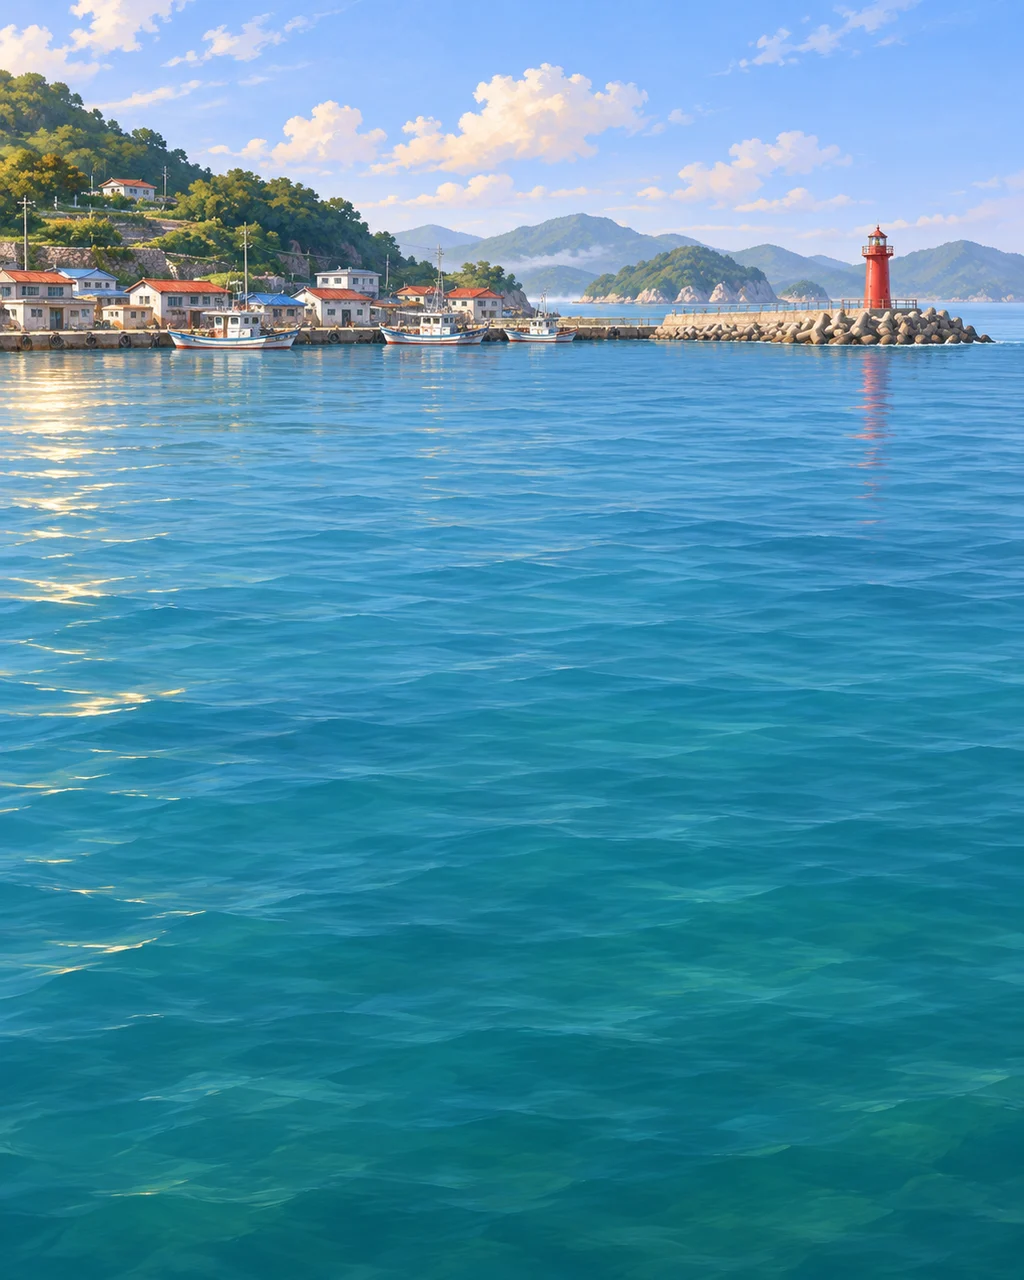
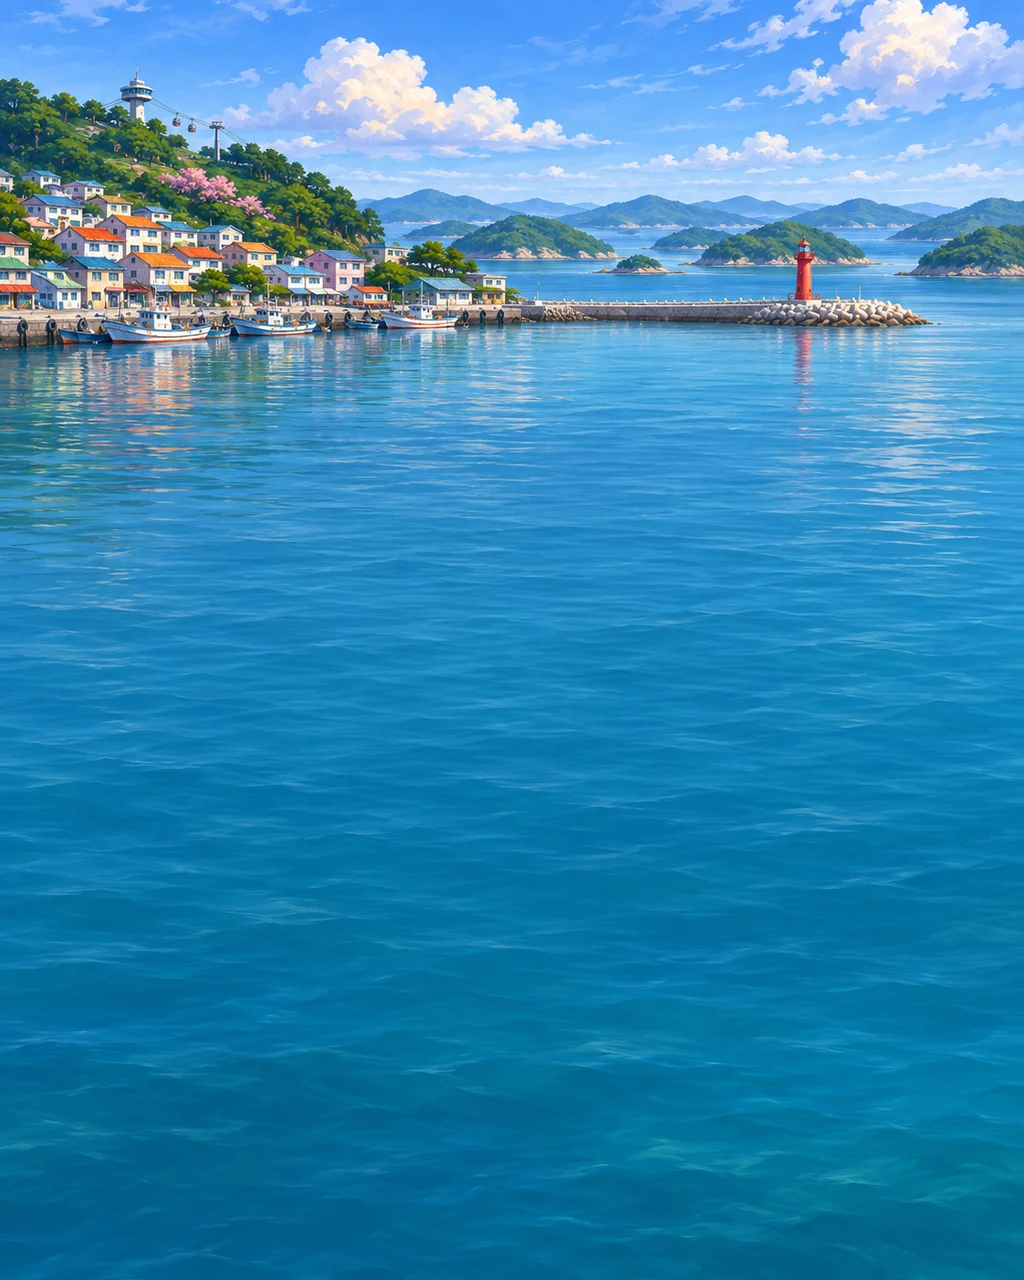
Fishing: new real-place backgrounds for every spot, Seomjin gets its own, water lines re-measured

diff --git a/src/lib/fishingfx.ts b/src/lib/fishingfx.ts
@@ -19,14 +19,15 @@ type SpotLook = { horizon: number; glint: string; air: "petal" | "mote" | "lante
 /** 수평선(그림마다 재서 적었다) · 물빛 반짝임 색 · 공중에 떠다니는 것 */
 export const FX_SPOTS: Readonly<Record<string, SpotLook>> = {
   brook: { horizon: 0.29, glint: "#ffffff", air: "petal" },
-  pond: { horizon: 0.28, glint: "#ffe3a8", air: "petal" },
+  pond: { horizon: 0.25, glint: "#ffe3a8", air: "petal" },
   jungle: { horizon: 0.29, glint: "#fff6c8", air: "mote" },
-  seomjin: { horizon: 0.29, glint: "#ffffff", air: "petal" },
-  harbor: { horizon: 0.27, glint: "#fff1d0", air: "bird" },
+  seomjin: { horizon: 0.28, glint: "#ffffff", air: "petal" },
+  harbor: { horizon: 0.26, glint: "#fff1d0", air: "bird" },
   reef: { horizon: 0.24, glint: "#ffffff", air: "bird" },
-  ocean: { horizon: 0.33, glint: "#fff1d0", air: "bird" },
-  palace: { horizon: 0.26, glint: "#ffd28a", air: "lantern" },
-  starsea: { horizon: 0.37, glint: "#cfe0ff", air: "star" },
+  ocean: { horizon: 0.30, glint: "#fff1d0", air: "bird" },
+  palace: { horizon: 0.31, glint: "#ffd28a", air: "lantern" },
+  starsea: { horizon: 0.28, glint: "#cfe0ff", air: "star" },
+  abyss: { horizon: 0.27, glint: "#97e8ef", air: "star" },
 };
 
 type RodLook = { butt: string; tip: string; wrap: string; grip: string; reel: string; spark?: string };

diff --git a/src/lib/fishing.ts b/src/lib/fishing.ts
@@ -48,7 +48,7 @@ export const spotArtKey = (s: Pick<FishSpot, "key" | "art">) => s.art ?? `spot_$
 export const SPOTS: readonly FishSpot[] = [
   { key: "brook", name: "서울 청계천", water: "river", minLevel: 1, pool: [["guppy", 50], ["tetra", 40], ["goldfish", 15], ["betta", 10]] },
   { key: "pond", name: "창녕 우포늪", water: "wetland", minLevel: 3, pool: [["catfish", 70], ["koi", 15]] },
-  { key: "seomjin", name: "하동 섬진강", water: "river", minLevel: 5, pool: [["sweetfish", 70], ["salmon", 15]], art: "spot_brook" },
+  { key: "seomjin", name: "하동 섬진강", water: "river", minLevel: 5, pool: [["sweetfish", 70], ["salmon", 15]], art: "spot_seomjin" },
   { key: "jungle", name: "서천 국립생태원", water: "hall", minLevel: 7, pool: [["angel", 40], ["discus", 30], ["ray", 20], ["arowana", 10]] },
   { key: "harbor", name: "통영 항구", water: "sea", minLevel: 9, pool: [["flounder", 45], ["rockfish", 35], ["sea_bream", 25], ["sea_bass", 20], ["croaker", 10], ["yellowtail", 8], ["striped_jack", 5]] },
   { key: "reef", name: "서귀포 문섬", water: "sea", minLevel: 12, pool: [["clown", 55], ["nurse_shark", 15], ["leopard_shark", 15], ["sea_turtle", 30], ["manta", 15]] },

diff --git a/src/lib/fishingart.test.ts b/src/lib/fishingart.test.ts
@@ -8,7 +8,7 @@ import { FISHING_IMAGE_KEYS } from "./fishingimages.ts";
 test("fishing art covers every spot, rod, landing net, bait and junk item", () => {
   const expected = [...SPOTS.map(s => `spot_${s.key}`), ...RODS.map(r => r.key), ...NETS.map(n => n.key), ...BAITS.map(b => b.key), ...JUNKS.map(j => j.key)];
   // Harbor artwork is deployed before the reviewed species and spot are enabled.
-  assert.deepEqual([...FISHING_IMAGE_KEYS].sort(), [...new Set([...expected.filter((k) => k !== "spot_seomjin"), "spot_harbor"])].sort()); // 섬진강은 자기 그림이 올 때까지 art 로 빌려 쓴다
+  assert.deepEqual([...FISHING_IMAGE_KEYS].sort(), [...new Set([...expected, "spot_harbor", "spot_abyss"])].sort());
 });
 
 test("fishing backgrounds are portrait HD and all item art retains transparent 512px masters", () => {

diff --git a/src/lib/fishingimages.ts b/src/lib/fishingimages.ts
@@ -36,6 +36,7 @@ export const FISHING_IMAGE_KEYS: ReadonlySet<string> = new Set<string>([
   "rod_glass",
   "rod_star",
   "rod_titan",
+  "spot_abyss",
   "spot_brook",
   "spot_harbor",
   "spot_jungle",
@@ -43,5 +44,6 @@ export const FISHING_IMAGE_KEYS: ReadonlySet<string> = new Set<string>([
   "spot_palace",
   "spot_pond",
   "spot_reef",
+  "spot_seomjin",
   "spot_starsea",
 ]);

diff --git a/design/FISHING-ART.md b/design/FISHING-ART.md
@@ -4,7 +4,7 @@
 > **이 문서의 그림은 전부 2D 다.** 수조 내부의 3D 모델은 별도 제작·검수하며(`design/aqua3d-review/`), 이 문서의 낚시터 · 장비 · 미끼 · 쓰레기를 대체하지 않는다.
 > 낚시 결과 카드 · 게임 탭 카드의 물고기는 2D 그림(`public/aqua/fish`, design/AQUARIUM-ART.md)을 그대로 쓴다 — 수조가 3D 가 돼도 지우지 않는다.
 >
-> 모두 **43장**: 낚시터 배경 9 · 장비 12 · 미끼 7 · 꽝 쓰레기 15. 미끼 · 쓰레기는 없으면 화면이 벡터 아이콘으로 그린다.
+> 모두 **44장**: 낚시터 배경 10 · 장비 12 · 미끼 7 · 꽝 쓰레기 15. 미끼 · 쓰레기는 없으면 화면이 벡터 아이콘으로 그린다.
 
 ## 넣는 법
 
@@ -27,10 +27,11 @@ Premium hand-painted mobile fishing game background, portrait 4:5 (1024x1280), v
 Premium hand-painted mobile game item icon, cute but believable, glossy rich shading, soft light from the upper left, clean readable silhouette at 52 pixels. Single object drawn diagonally, whole object inside the image with 10% empty padding on all sides. True transparent background (PNG alpha). No hands, no water, no scenery, no cast shadow, no text, no border, no watermark. 1024x1024.
 ```
 
-## 낚시터 (9장)
+## 낚시터 (10장)
 
 | key | 이름 | 설명 |
 |---|---|---|
+| `spot_abyss` | 심연 · 외형 승인 후 활성화 | First-person view above a deep ocean trench at night, faint bioluminescent glow from far below, a few drifting lights, calm black open water in the lower 70%, no boat across the foreground, no text. |
 | `spot_harbor` | 통영 항구 | Real Korean place: Tongyeong harbour on the south coast (Hallyeosu waterway). Colourful low hillside village on the far left, small fishing boats along the far quay only, a small red lighthouse on a breakwater, many green islands fading into the distance behind calm blue water. |
 | `spot_brook` | 서울 청계천 | Real Korean place: Cheonggyecheon stream in downtown Seoul. A clear shallow urban stream between stone walkways, stepping stones across the water, low stone walls with willows and reeds, modern city buildings and an old stone bridge in the distance, soft evening light. |
 | `spot_pond` | 창녕 우포늪 | Real Korean place: Upo Wetland in Changnyeong, the largest natural inland wetland in Korea. Vast shallow marsh in morning mist, mats of water chestnut and prickly water lily along the far edge, willow trees standing in the water, a small flat wooden punt with a long pole far away, low hills, no buildings. |
